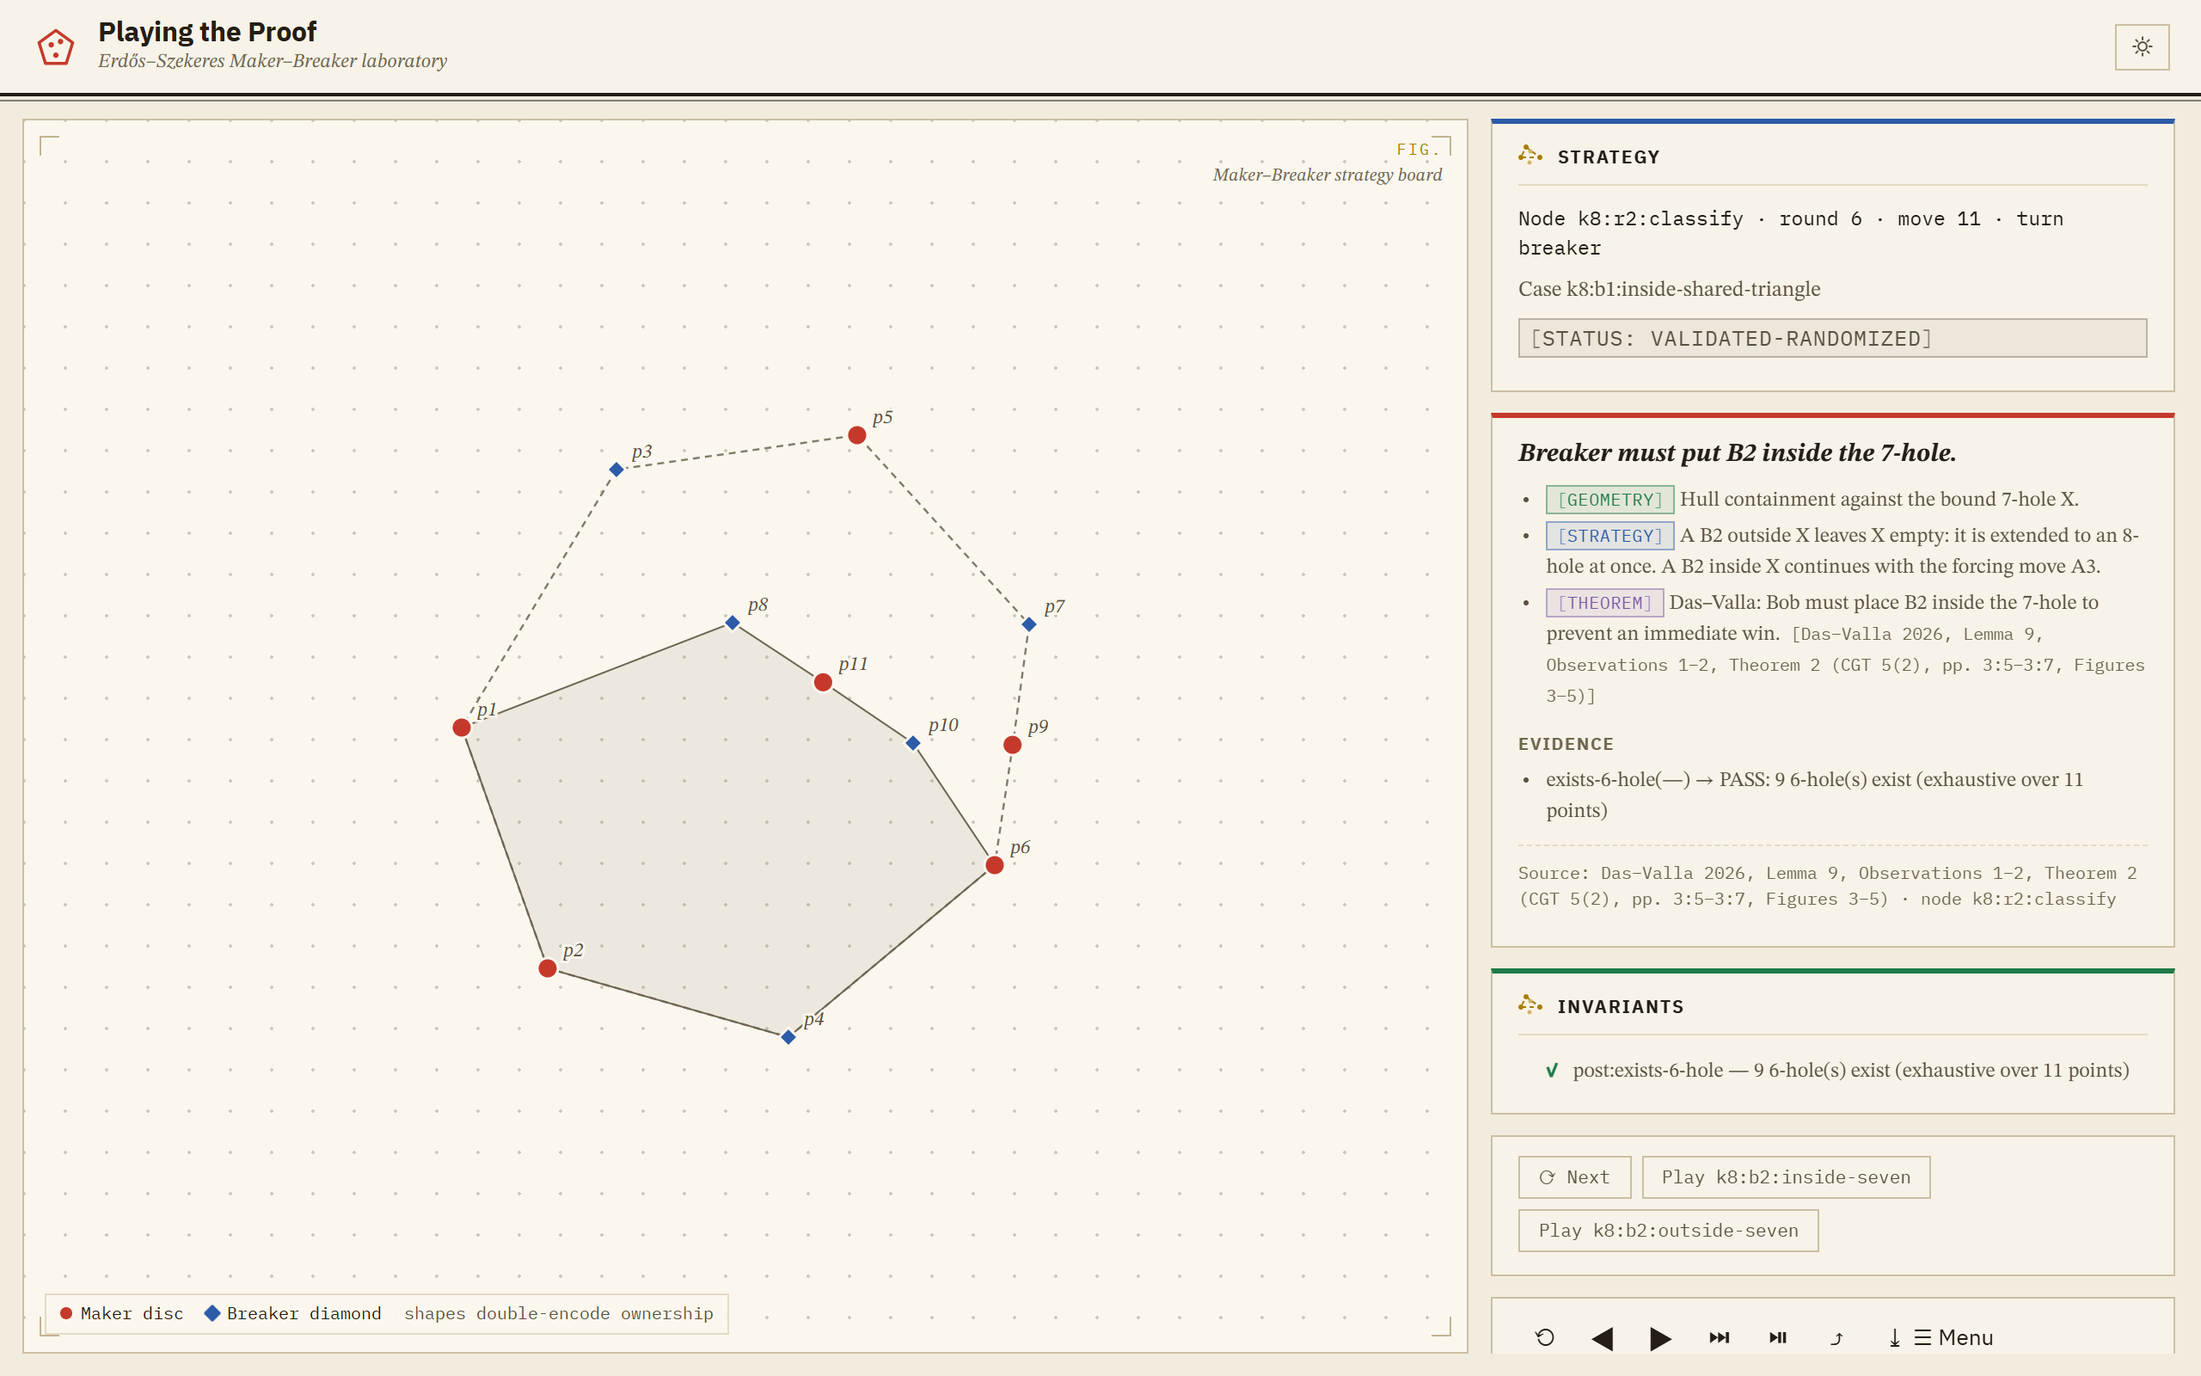
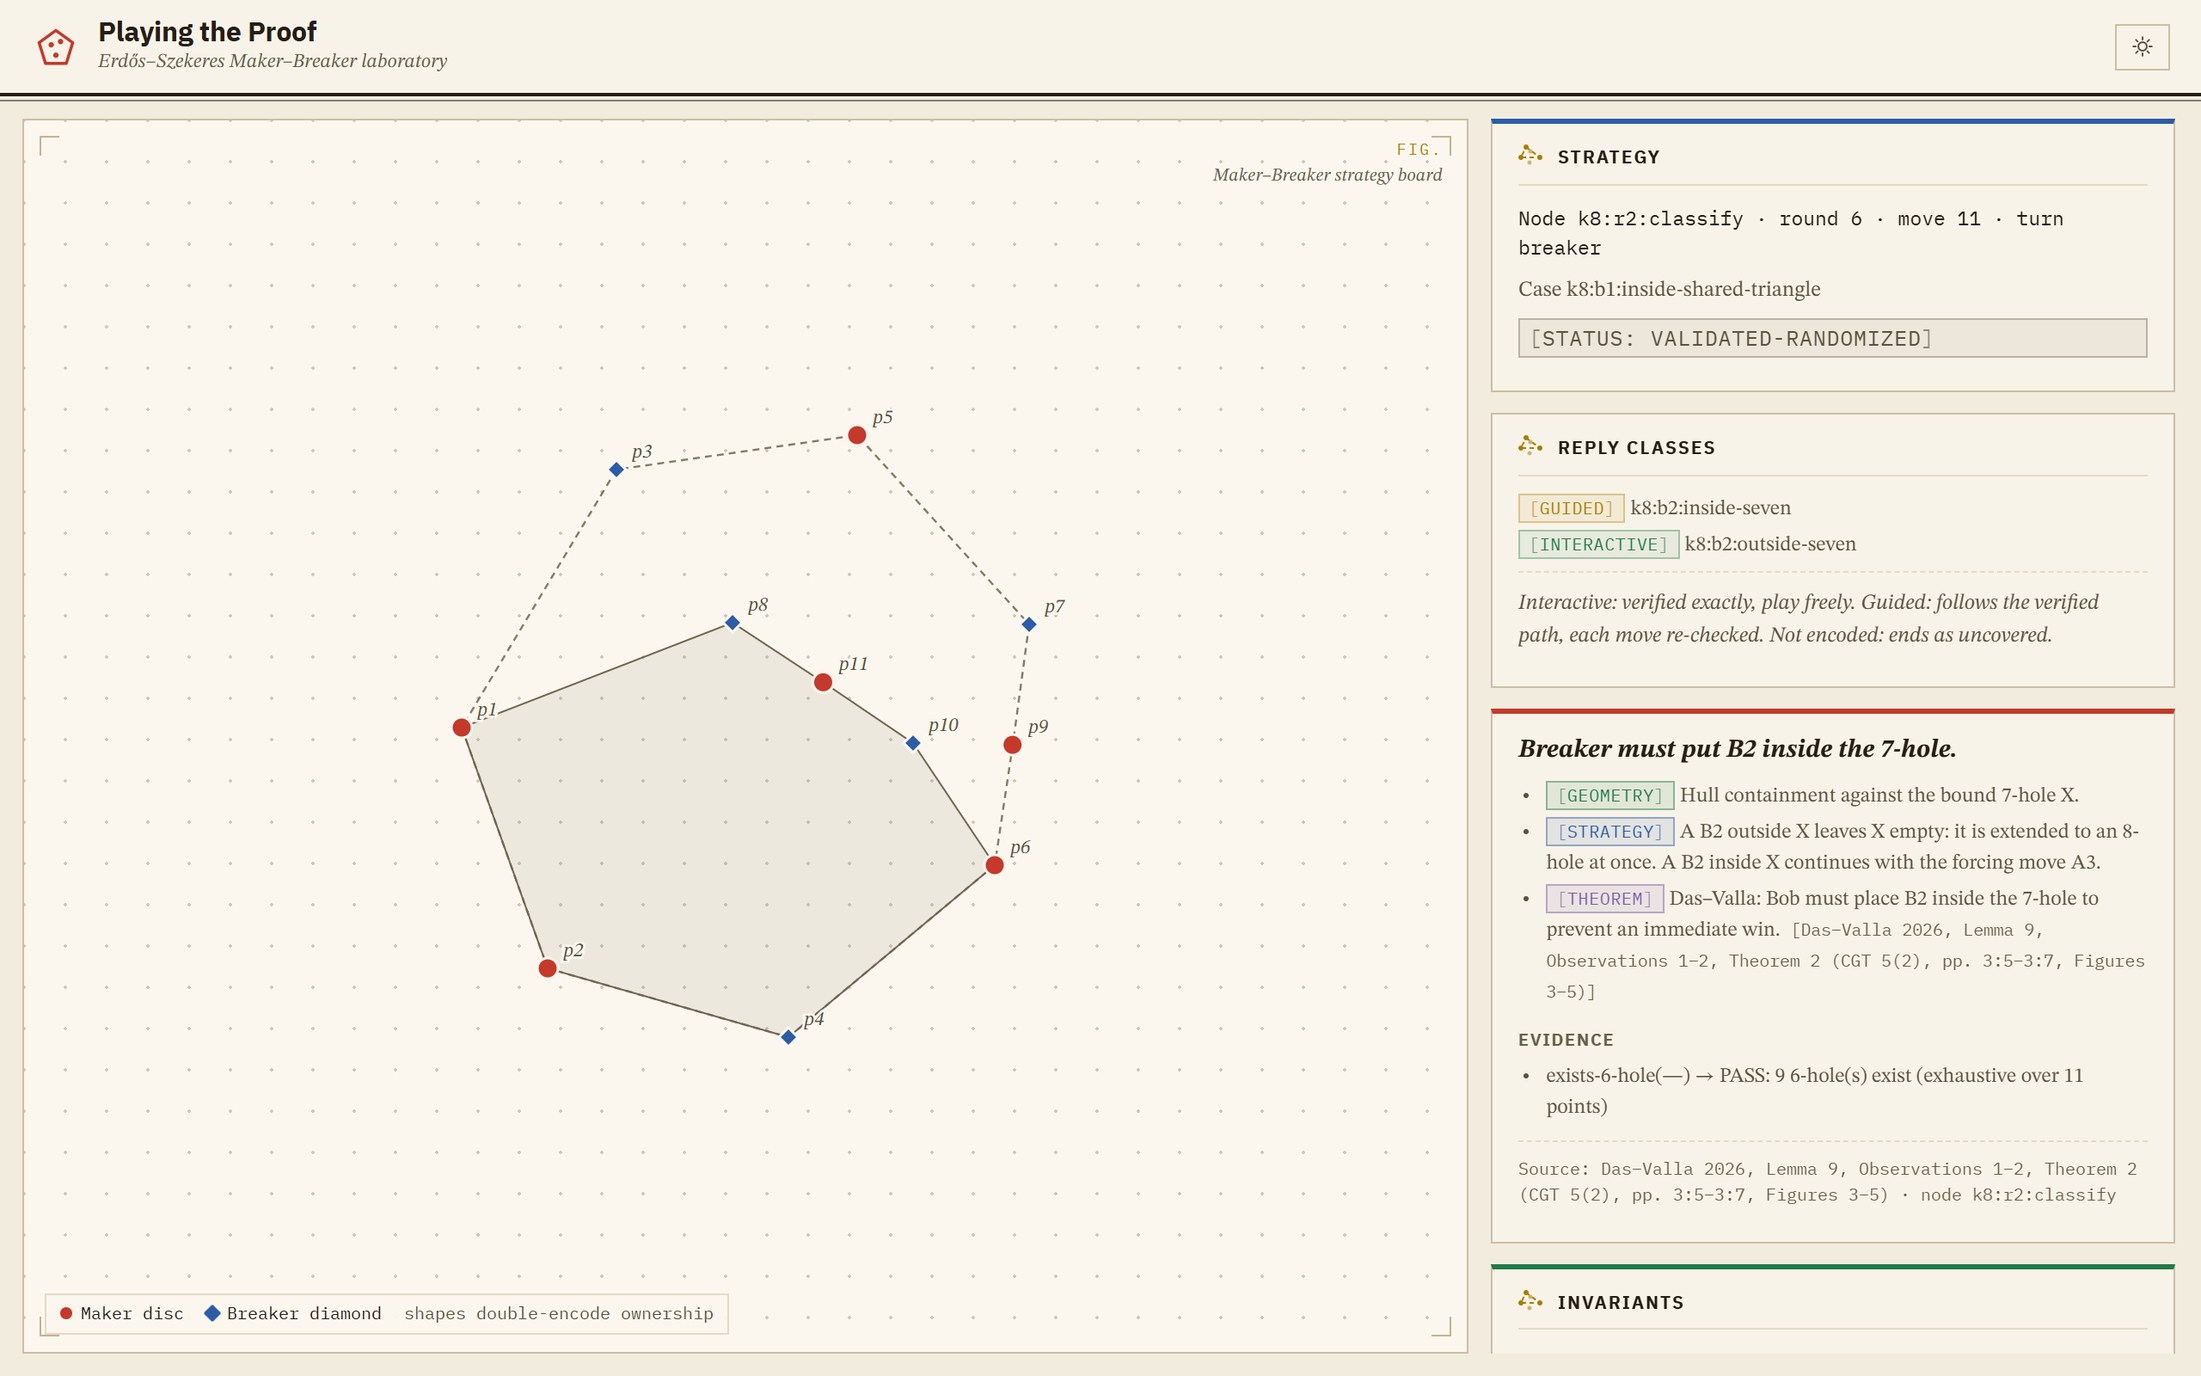
a11y: darken small tag and badge text (tier, reply-class and lab status) to reach 4.5:1 in the light theme

Changed region(s): [[0.6875, 0.2812, 1.0, 1.0], [0.875, 0.9688, 0.9062, 1.0]]

diff --git a/src/style.css b/src/style.css
@@ -130,6 +130,7 @@
   --structure: #6e6552; /* auxiliary construction, warm slate */
   --gold: #a87e00; /* Byrne's yellow, as print ink */
   --gold-ink: #241e15; /* text on gold fields */
+  --tag-mix: #000; /* small-tag text is mixed toward this for ≥4.5:1 */
 
   /* surfaces & ink — LIGHT (the desk, the plate, the paper) */
   --bg-app: #f2ecdf; /* the desk */
@@ -186,6 +187,7 @@
   --structure: #8a93ab;
   --gold: #d9b45c;
   --gold-ink: #10141f;
+  --tag-mix: #fff;
 
   --bg-app: #0c1018; /* the night */
   --bg-board: #121724; /* the board: deep navy */
@@ -700,19 +702,19 @@ input {
   opacity: 0.65;
 }
 .tier-verified-geometry {
-  color: var(--verify);
+  color: color-mix(in srgb, var(--verify) 76%, var(--tag-mix));
 }
 .tier-strategy-rule {
-  color: var(--breaker);
+  color: color-mix(in srgb, var(--breaker) 76%, var(--tag-mix));
 }
 .tier-theorem-cited {
-  color: var(--protected);
+  color: color-mix(in srgb, var(--protected) 76%, var(--tag-mix));
 }
 .tier-observed {
-  color: var(--maker);
+  color: color-mix(in srgb, var(--maker) 76%, var(--tag-mix));
 }
 .tier-uncovered {
-  color: var(--illegal);
+  color: color-mix(in srgb, var(--illegal) 76%, var(--tag-mix));
 }
 
 .status-badge {
@@ -736,7 +738,7 @@ input {
 }
 .status-badge[title*="validated"],
 .status-badge[title*="verified"] {
-  color: var(--verify);
+  color: color-mix(in srgb, var(--verify) 76%, var(--tag-mix));
 }
 
 #panel-branches ul {
@@ -749,13 +751,13 @@ input {
   font-size: 12px;
 }
 .branch-tag.branch-interactive {
-  color: var(--verify);
+  color: color-mix(in srgb, var(--verify) 76%, var(--tag-mix));
 }
 .branch-tag.branch-guided {
-  color: var(--gold);
+  color: color-mix(in srgb, var(--gold) 70%, var(--tag-mix));
 }
 .branch-tag.branch-unverified {
-  color: var(--illegal);
+  color: color-mix(in srgb, var(--illegal) 76%, var(--tag-mix));
 }
 
 .ref {
@@ -2235,13 +2237,13 @@ body:has(.win-card) .pt-maker {
   padding: 2px 7px;
 }
 .lab-badge[data-status="THEOREM_BACKED"] {
-  color: var(--verify);
+  color: color-mix(in srgb, var(--verify) 76%, var(--tag-mix));
 }
 .lab-badge[data-status="EXPERIMENTAL"] {
-  color: var(--gold);
+  color: color-mix(in srgb, var(--gold) 70%, var(--tag-mix));
 }
 .lab-badge[data-status="NOT_COVERED"] {
-  color: var(--illegal);
+  color: color-mix(in srgb, var(--illegal) 76%, var(--tag-mix));
 }
 .lab-obs {
   border-left: 3px solid var(--line-2);

diff --git a/docs/figures/README.md b/docs/figures/README.md
@@ -6,23 +6,25 @@ Reproduce: build the app, serve it (e.g. `npx vite preview --port 4791`), then `
 
 | File | Reproduction steps | Mathematical meaning of what is displayed |
 |---|---|---|
-| fig01-proof-k5.png | Entry: Proof mode, esmb-k5, Start. Click "Next" (plays the sample reply of the first case). Press `c` (case-map overlay on). | Das-Valla Lemma 6 (k=5) at node `k5:r2:classify`: Maker's p1, p3 and Breaker's p2 are placed; the case map partitions the plane into the regions in which the next Breaker reply falls into a different case (convex four-set vs. one swallowed point); the Why panel gives the geometric and strategic justification, the timeline shows t0, t1. |
-| fig01-proof-k5-dark.png | Same as fig01, then click the theme toggle (dark theme). | Identical content in the dark theme (the semantic encoding is the same in both themes). |
-| fig02-proof-k6-twins.png | Proof mode, esmb-k6, Start (preset pentagon), click "Next". | Lemma 7 (k=6) at node `k6:r5:classify`, headline "Breaker's B1 is sorted against the twin 5-holes": two overlapping 5-hole overlays on p1..p7 whose intersection (darker green) is the shared triangle; B1's position relative to the shared triangle / a twin interior / elsewhere selects the next case. |
+| fig01-proof-k5.png | Proof mode, esmb-k5, Start; click "Next"; click chip "Play k5:b2:one-interior"; move the pointer off the board. 1280x800 (full viewport), scale 2, light. | Das-Valla Lemma 6 (k=5) at node `k5:r3:classify`, case `k5:b2:one-interior`: B2 swallowed one point, the Invariants panel shows the populated check `post:exists-4-hole - 1 4-hole(s) exist (exhaustive over 5 points)`; the Why panel and timeline (t0..t2) are visible. Only p2, p4, p5 lie inside the auto-fitted view; p1 and p3 are far away and off-screen. |
+| fig01-proof-k5-dark.png | As fig01, then click the theme toggle. | Same state in the dark theme. |
+| fig02-proof-k6-twins.png | Proof mode, esmb-k6, Start, "Next". Clip of the board only (12,66,844x726 CSS px), scale 2, light. | Lemma 7 (k=6) at `k6:r5:classify`: the twin 5-holes through p1..p7 and their shared triangle (darker green) that decides where B1 falls. |
 | fig03-k7.png | Proof mode, esmb-k7, Start (state `k7:boot`, no further clicks). | Lemma 8 (k=7): the 6-hole (hexagon p2..p7) with its three main chords, which meet in a small central triangle; a Breaker point B0 inside the hexagon lies in exactly one half of each main chord, so exactly three of the six 4-holes survive (text in the Why panel). The twin 6-holes and shared quadrilateral are not displayed at this state; only the hexagon and chords are. |
 | fig04-k8.png | Proof mode, esmb-k8, Start (bare 7-point heptagon preset p1..p7). Click the board at the centroid of heptagon vertices p1, p3, p5, p6 (B0 = (12, 33/2) in world coordinates; Maker replies A1 = p9). No further clicks. Viewport 1280x800, light theme. | Das-Valla Lemma 9 (k=8), node `k8:r1:classify`, case `k8:b0:inside-pair`: after Breaker point B0 (p8) and Maker reply A1 (p9) there are two 6-holes (twins) whose intersection is exactly the triangle B0-p6-A1 (darker green); B1 is next sorted by whether it lies in that shared triangle. The Why panel cites Lemma 9, Observations 1-2; the Evidence line reports 14 six-holes exhaustively over 9 points. No case map is drawn at this node. |
 | fig04c-k8-7hole.png | Continue from fig04: click the board at the centroid of the shared triangle (p8, p9, p6) as B1 (Maker replies A2 = p11). Same viewport/theme. | Node `k8:r2:classify`, case `k8:b1:inside-shared-triangle`: B1 in the shared triangle yields a 7-hole X (shaded hull through p1, p8, p11, p10, p6, p4, p2); headline "Breaker must put B2 inside the 7-hole"; 9 six-holes exist over 11 points. B3 has no case map by design. |
-| fig04b-k8-final.png | Continue from fig04c: click the chip "Play k8:b2:inside-seven" (B2 inside X; Maker replies A3). Same viewport/theme. | Node `k8:r3:escape`, 13 points, win card "Maker wins - 1 witness hole(s)": verified 8-hole p1, p13, p12, p4, p6, p10, p11, p8 (evidence line `terminal-witness(...) -> verified 8-hole`). The card overlays and dims the board; the witness edges are only partly visible behind it. The walkthrough follows the encoded strategy and does not itself prove the theorem (card text). |
+| fig04b-k8-final.png | Continue from fig04c: click the chip "Play k8:b2:inside-seven" (B2 inside X; Maker replies A3). Same viewport/theme. | Node `k8:r3:escape`, 13 points, win card "Maker wins - 1 witness hole(s)": verified 8-hole p1, p13, p12, p4, p6, p10, p11, p8 (evidence line `terminal-witness(...) -> verified 8-hole`). The card cannot be dismissed (fixed overlay that dims the whole viewport), so the 8-hole edges are only partly visible behind it; the witness is listed in the card and in the Evidence line. The walkthrough follows the encoded strategy and does not itself prove the theorem (card text). |
 | fig05-kstrip-explorer.png | k-strip explorer (Open), Variant monochromatic 1:1, k=3, t=2 (set via the inputs), Run, press "Next" 17 times (step 18: level-2 base points, harvest), scroll panel column to the Recursion panel. | Dzuklevski et al. Theorem 3 construction: 8 level-2 strips (Maker disc + Breaker diamond pairs) harvested; the Recursion table gives r(2,8)=8, r(3,2)=r(2,8)+2*2=12, and the not-executed next row r(4,2)=52, equal to the closed form (5/3*4^(k-2) - 2/3)*t. Board axes are scaled independently (stated on the page). |
-| fig06-kstrip-pairing.png | Explorer, mono 1:1, k=3, t=1, Run, "Next" 11 times (step 12: "Maker places the extension point p_1"), choose "Unit 1" in Candidate pair, tick both cone checkboxes, scroll panel column to Inspect. | Level-3 pairing: the two candidate regions R1 and R2 (shaded, gold outline) of unit 1 meet exactly in the halfline below p_1 (text: "R1 (live) and R2 (live) meet exactly in the halfline below (5/2, 3/2)"). The display clips the unbounded regions, so the pair lies at the bottom edge of the board; the extension cones were enabled but no cone outline is visible in this clipped view. |
-| fig07-break-ledger.png | Explorer, mono 1:1, k=3, t=2, Run, "Start Break the Proof"; type exact coordinates and press "Place Breaker point" for (6,-5), (10,-5), (16,3), (14,-9); wait for toasts to expire; scroll to the Break the Proof panel. | Four Breaker placements classified by the counting ledger: three "block the interior of" a candidate region (R3, R5, R7) and one is "absorbed by adoption" (on a region boundary); the invariant shown is "4 of 4 units alive, survivor lower bound 4 against 2 required", i.e. Breaker's budget cannot kill enough units to push the survivor count below t. This is one adversary, not all (page text). |
-| fig08-lab.png | Parameter Lab (Open), model Online, rule Monochromatic, k=5, bias 1:1 (the lab's defaults for model/rule), panel scrolled to Result ledger. | THEOREM-BACKED cell of the regime map (online, monochromatic, 1:1, k=5) with its citations (DER-MONO-SMALLK derived; DZ Thm 3, Thm 4 proved). The lab reports citations and does not re-derive them. |
-| fig08b-lab-experimental.png | Lab, model Online, rule Bichromatic, k=7, bias 1:2. | EXPERIMENTAL: no cited statement covers online bichromatic 1:2 (the proved bichromatic range is s<2, Thm 5); page states that any bounded simulation output is an observation of one sampled play, and lists nearest theorem-backed neighbours. |
-| fig08c-lab-notcovered.png | Lab, model One-round, rule Monochromatic, k=10, bias 1:1. | NOT COVERED: no statement and no simulation (engine supports k in [3,8]); nearest backed neighbours are listed instead of an extrapolation. |
-| fig09-bichromatic.png | Sandbox (Start), click "Bichromatic" in the Rule row, set seed 7 / size 10, Generate, click "Breaker" owner button, click the board at four interior positions, click "hole >". | Bichromatic rule (Maker-only holes; Breaker points are blockers, rule caption visible): 10 Maker points have 40 empty convex 5-holes; four Breaker blockers (blue diamonds p11..p14) reduce this to 8 (hole 2 of 8 highlighted). |
+| fig06-kstrip-pairing.png | Explorer, mono 1:1, k=3, t=1, Run, "Next" 13 times (step 14: "Maker places the extension point p_2"), choose "Unit 2" under Candidate pair, tick both cone checkboxes, scroll panel column to Inspect. Full 1280x800 viewport, scale 2, light. | Level-3 pairing, unit 2: candidate regions R3 and R4 (shaded, gold outline) are fully on the board and meet exactly in the vertical halfline through p_2 (ringed); the Inspect text states "R3 (live) and R4 (live) meet exactly in the halfline below (13/2, 51/2)". The cone checkboxes are ticked; no separate cone outline is drawn at this step. |
+| fig07-break-ledger.png | Explorer, mono 1:1, k=3, t=2, Run, "Start Break the Proof"; type (6,-5), (10,-5), (16,3), (14,-9), pressing "Place Breaker point" each time; wait for toasts to expire; scroll to the Break the Proof panel. Clip of the panel column (860,66,412x730), scale 2. | Four classified Breaker placements (three block a candidate interior, one is absorbed by adoption) and the ledger line "4 of 4 units alive, survivor lower bound 4 against 2 required" (counting invariant); one adversary only (page text). |
+| fig08-lab.png | Lab (Open); set model/rule/k/bias as for the status named in the meaning column; scroll panel column to Result ledger. Clip of the panel column (860,66,412x730), scale 2, light. | THEOREM-BACKED online/monochromatic 1:1 k=5 with citations (DER-MONO-SMALLK derived, DZ Thm 3 and 4 proved). |
+| fig08b-lab-experimental.png | Lab (Open); set model/rule/k/bias as for the status named in the meaning column; scroll panel column to Result ledger. Clip of the panel column (860,66,412x730), scale 2, light. | EXPERIMENTAL online/bichromatic 1:2 k=7: no cited statement covers it; simulation output is only an observation of one sampled play; nearest theorem-backed neighbours listed. |
+| fig08c-lab-notcovered.png | Lab (Open); set model/rule/k/bias as for the status named in the meaning column; scroll panel column to Result ledger. Clip of the panel column (860,66,412x730), scale 2, light. | NOT COVERED one-round/monochromatic 1:1 k=10: no statement and no simulation (engine supports k in [3,8]); nearest backed neighbours listed. |
+| fig09-bichromatic.png | Sandbox (Start), click "Bichromatic", seed 7 / size 10, Generate, click "Breaker" owner button, click the board at four interior positions, click "hole >". Clip of the board (12,66,844x726), scale 2, light. | Bichromatic rule (board caption "Maker-only empty convex 5-gons ... bichromatic rule"): 10 Maker points have 40 empty 5-holes; four Breaker blockers (blue diamonds p11..p14) reduce this to 8, hole 2 of 8 highlighted. |
 | fig10-sandbox.png | Sandbox (Start), seed 7 / size 10, Generate, click "hole >". | A seeded general-position set of 10 points with its hull (dashed) and all empty convex 5-holes (green edges, thicker = more holes through the edge); diagnostics: 40 5-holes, exhaustive over 10 points. The Overmars-29 preset is loaded only at k=6 and its 29 points are too clustered to be legible at this scale, so a generated set is shown instead. |
 | fig11-break-k5.png | Break the Proof, esmb-k5, Start; click the board once (B1); wait for toasts; scroll panels to the placement/attack log. | Mid-game of Lemma 6: Breaker's B1 (blue diamond near p1) was classified `k5:any` ("parked") and Maker replied p3; the attack log lists the classified attack and the summary line "1 classified, wins 0, uncovered 0". Maker's reply p3 lies far from p1, so the auto-fitted view compresses p1/B1 together. |
-| fig12-mobile-375.png | Viewport 375x812 (mobile emulation, touch), explorer mono 1:1 k=3 t=1, Run, "Next" 11 times. | Responsive layout: the board stacks above the single-column configuration panel; same content as the desktop explorer. |
-| fig12-mobile-375-entry.png | Viewport 375x812 (mobile emulation), entry screen. | Entry screen at phone width. |
+| fig12-mobile-375.png | 375x812 (mobile emulation), explorer mono 1:1 k=3 t=1, Run, "Next" 13 times, Unit 2. | Responsive explorer: board above the single-column configuration panel; R3/R4 visible. Known cosmetic issue: the ownership legend overlaps the bottom of the board at this width, so the clean mobile figure is fig12-mobile-375-entry.png. |
+| fig12-mobile-375-entry.png | 375x812 (mobile emulation), entry screen. | Entry screen at phone width: single column, no clipping or overlap (clean mobile evidence). |
+| fig13-branch-labels.png | Proof mode, esmb-k8, Start, scroll panel column to the Reply classes panel. 1280x800, scale 2, light. | Reply classes at `k8:boot`: `k8:b0:outside-heptagon` INTERACTIVE (verified exactly), `k8:b0:inside-pair` GUIDED (follows the verified path), `k8:b0:inside-no-pair` NOT ENCODED (ends as uncovered), with the legend sentence. |
+| fig14-sandbox-bias.png | Sandbox (Start), type 2 in the bias field, click "Set bias", click the board twice (Maker p1, Breaker p2), scroll panel column to the bias row. 1280x800, scale 2, light. | Bias 1:2 ("after each Maker point Breaker places 2 points; Maker moves first"): board caption "bias 1:2", diagnostics "turn: breaker" after Maker p1 and one Breaker point, so one more Breaker point is owed; Load Overmars-29 is disabled under a non-1:1 bias. |
 
 Notes: fig02 and fig03 were taken at the stated states without scrolling; in fig03 the sample-reply buttons extend below the visible panel. Figures 05-08 show scrolled panel columns (the page itself is 800 px tall with an internally scrolling aside).
